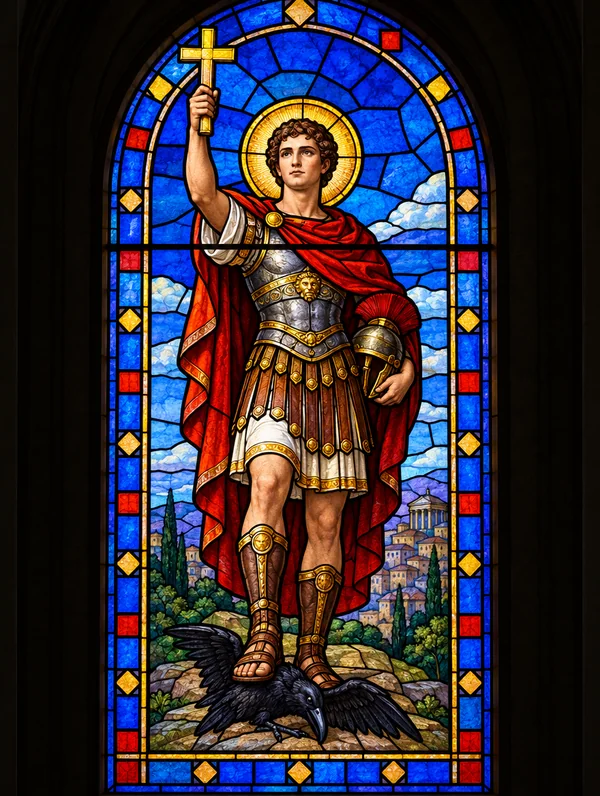
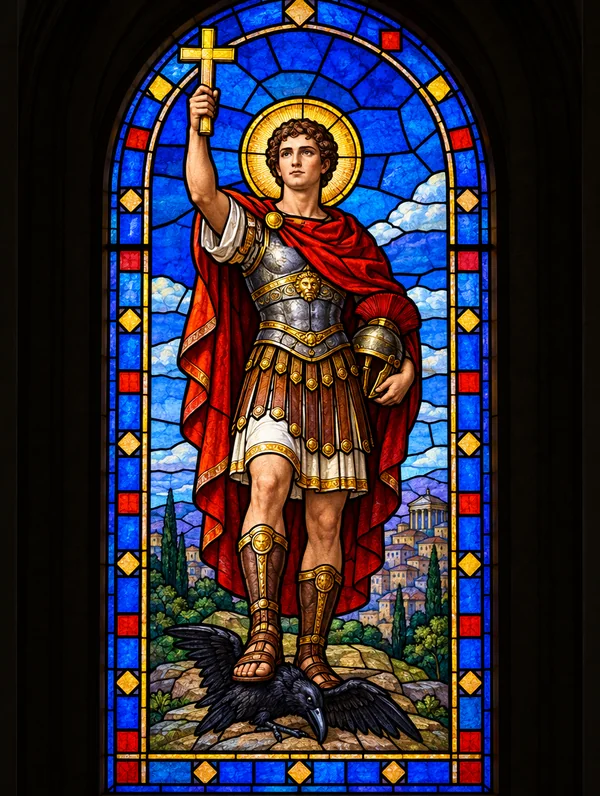
Santo Expedito: sai a barra preta horizontal que cortava a figura abaixo do braço erguido
Retoque local no original, sem nova geração: o resto da imagem fica como estava.

Changed region(s): [[0.24, 0.2714, 0.75, 0.3618]]

diff --git a/index.html b/index.html
@@ -1331,7 +1331,7 @@ h1 { font-family: var(--display); font-weight: 400; font-size: 2rem; margin: 0; 
   const COM_FIGURA = ["pedro", "paulo", "francisco", "jorge", "teresinha", "antonio", "sebastiao", "luzia", "jose", "miguel", "barbara", "joao", "clara", "rita", "judas", "cristovao", "expedito", "nicolau", "pio", "cosme", "edwiges", "teresacalcuta", "joaopaulo", "bento", "madalena", "catarina", "lourenco", "agostinho", "inacio", "domingos", "jeronimo", "patricio", "cecilia", "bras", "roque", "tiago", "mateus", "marcos", "lucas", "joaoev", "andre", "estevao", "martinho", "helena", "joana", "faustina", "bernadete", "teresaavila", "galvao", "anchieta", "benedito", "longuinho", "ambrosio", "gregorio", "apolonia", "rosalima", "xavier", "antao", "kolbe", "ferrer", "bakhita", "eloi", "huberto", "goncalo", "isidoro", "bartolomeu", "barnabe", "rafael", "josemaria", "ana", "monica", "veronica", "dulce", "margaridamaria", "gabriel", "reismagos", "joaobosco", "carloacutis", "vicentepaulo", "marta", "isabel", "catarinasena", "efigenia", "paulina", "gianna", "joaquim", "luisgonzaga", "camilo", "martinholima", "raimundononato", "vianney", "tarcisio", "joaodiego", "simaostock", "dimas", "onofre", "tomasaquino", "carlosborromeu", "joaodacruz", "brigida", "escolastica", "doroteia", "edithstein", "filipe", "tiagomenor", "joaodedeus", "januario", "bonifacio", "nepomuceno", "frassati", "charbel", "cupertino", "foucauld", "inacioantioquia", "tomasbecket", "brandao", "amaro", "ivo", "ines", "pastorinhos", "tome", "tomasmore", "boaventura", "bruno", "filipeneri", "franciscopaula", "germano", "ezequielmoreno", "tomasvilanova", "joaosahagun", "nicolautolentino", "madalenanagasaki", "simao", "matias", "valentim", "silvestre", "pancracio", "geraldo", "catarinalaboure", "joaoxxiii", "domingossavio", "mariagoretti", "lazaro", "piox", "luisrei", "paulovi", "franciscosales", "afonso", "bernardo", "crisostomo", "dionisio", "ursula", "genoveva", "damiao", "pedroclaver", "romero", "zita", "peregrino", "luiszelia", "luisamarillac", "pedroalcantara", "cunhau", "margaridaantioquia", "paulomiki", "gil", "vito", "roquegonzalez", "kateri", "junipero", "fiacre", "venceslau", "clemente", "perpetua", "basilio", "leao", "anselmo", "beda", "norberto", "kostka", "angelamerici", "lwanga", "cirilometodio", "solano", "mariaegipciaca", "anjodaguarda", "zacariasisabel", "agueda", "floriano", "lasalle", "champagnat", "aleixo", "hildegarda", "cabrini", "dimpna", "albertomagno", "nuno", "joaodebrito", "erasmo", "raimundopenaforte", "borja"];   // img/santos/<id>.webp
   const COM_SIMBOLOS = ["pedro", "paulo", "francisco", "jorge", "teresinha", "antonio", "sebastiao", "luzia", "jose", "miguel", "barbara", "joao", "clara", "rita", "judas", "cristovao", "expedito", "nicolau", "pio", "cosme", "edwiges", "teresacalcuta", "joaopaulo", "bento", "madalena", "catarina", "lourenco", "agostinho", "inacio", "domingos", "jeronimo", "patricio", "cecilia", "bras", "roque", "tiago", "mateus", "marcos", "lucas", "joaoev", "andre", "estevao", "martinho", "helena", "joana", "faustina", "bernadete", "teresaavila", "galvao", "anchieta", "benedito", "longuinho", "ambrosio", "gregorio", "apolonia", "rosalima", "xavier", "antao", "kolbe", "ferrer", "bakhita", "eloi", "huberto", "goncalo", "isidoro", "bartolomeu", "barnabe", "rafael", "josemaria", "ana", "monica", "veronica", "dulce", "margaridamaria", "gabriel", "reismagos", "joaobosco", "carloacutis", "vicentepaulo", "marta", "isabel", "catarinasena", "efigenia", "paulina", "gianna", "joaquim", "luisgonzaga", "camilo", "martinholima", "raimundononato", "vianney", "tarcisio", "joaodiego", "simaostock", "dimas", "onofre", "tomasaquino", "carlosborromeu", "joaodacruz", "brigida", "escolastica", "doroteia", "edithstein", "filipe", "tiagomenor", "joaodedeus", "januario", "bonifacio", "nepomuceno", "frassati", "charbel", "cupertino", "foucauld", "inacioantioquia", "tomasbecket", "brandao", "amaro", "ivo", "ines", "pastorinhos", "tome", "tomasmore", "boaventura", "bruno", "filipeneri", "franciscopaula", "germano", "ezequielmoreno", "tomasvilanova", "joaosahagun", "nicolautolentino", "madalenanagasaki", "simao", "matias", "valentim", "silvestre", "pancracio", "geraldo", "catarinalaboure", "joaoxxiii", "domingossavio", "mariagoretti", "lazaro", "piox", "luisrei", "paulovi", "franciscosales", "afonso", "bernardo", "crisostomo", "dionisio", "ursula", "genoveva", "damiao", "pedroclaver", "romero", "zita", "peregrino", "luiszelia", "luisamarillac", "pedroalcantara", "cunhau", "margaridaantioquia", "paulomiki", "gil", "vito", "roquegonzalez", "kateri", "junipero", "fiacre", "venceslau", "clemente", "perpetua", "basilio", "leao", "anselmo", "beda", "norberto", "kostka", "angelamerici", "lwanga", "cirilometodio", "solano", "mariaegipciaca", "anjodaguarda", "zacariasisabel", "agueda", "floriano", "lasalle", "champagnat", "aleixo", "hildegarda", "cabrini", "dimpna", "albertomagno", "nuno", "joaodebrito", "erasmo", "raimundopenaforte", "borja"]; // img/simbolos/<id>.webp
   // Imagem refeita com o mesmo nome: o número entra no endereço, e os aparelhos que guardaram o jogo baixam só ela de novo
-  const REFEITAS = { "santos/longuinho": 2, "santos/agostinho": 2, "santos/angelamerici": 2, "santos/edithstein": 2, "santos/helena": 2, "santos/marta": 2, "santos/josemaria": 2, "simbolos/josemaria": 2, "santos/raimundononato": 2 };
+  const REFEITAS = { "santos/longuinho": 2, "santos/agostinho": 2, "santos/angelamerici": 2, "santos/edithstein": 2, "santos/helena": 2, "santos/marta": 2, "santos/josemaria": 2, "simbolos/josemaria": 2, "santos/raimundononato": 2, "santos/expedito": 2 };
   const arquivo = (serie, id) => `img/${serie}/${id}.webp` + (REFEITAS[`${serie}/${id}`] ? `?v=${REFEITAS[`${serie}/${id}`]}` : "");
   const imgFor = (id, md) => md === "imagem" ? (COM_FIGURA.includes(id) ? arquivo("santos", id) : null)
     : (COM_SIMBOLOS.includes(id) ? arquivo("simbolos", id) : null);
